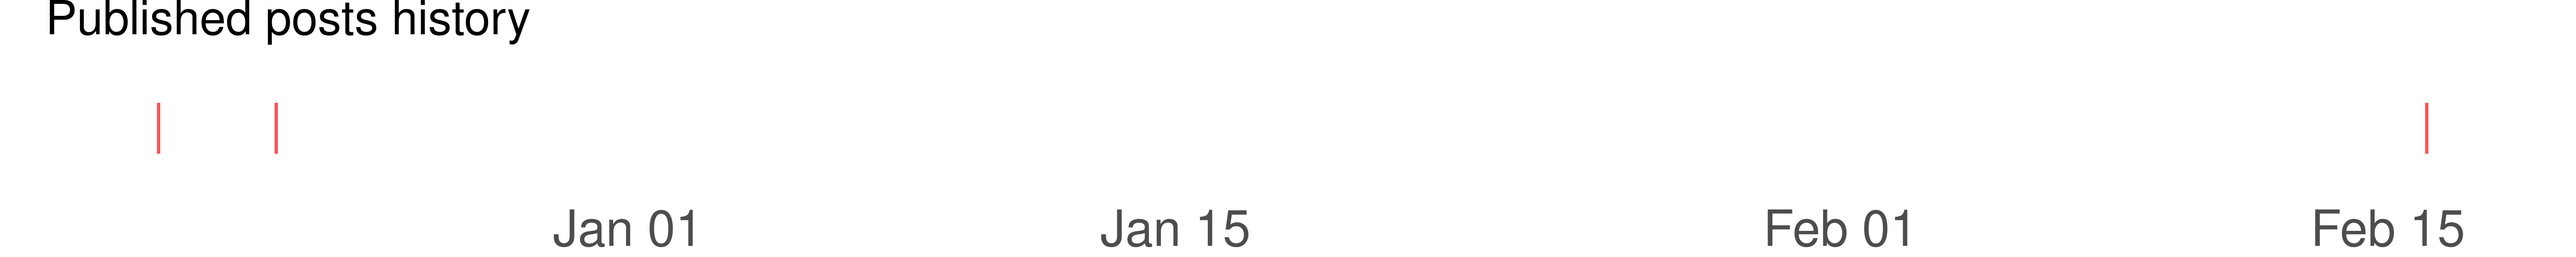
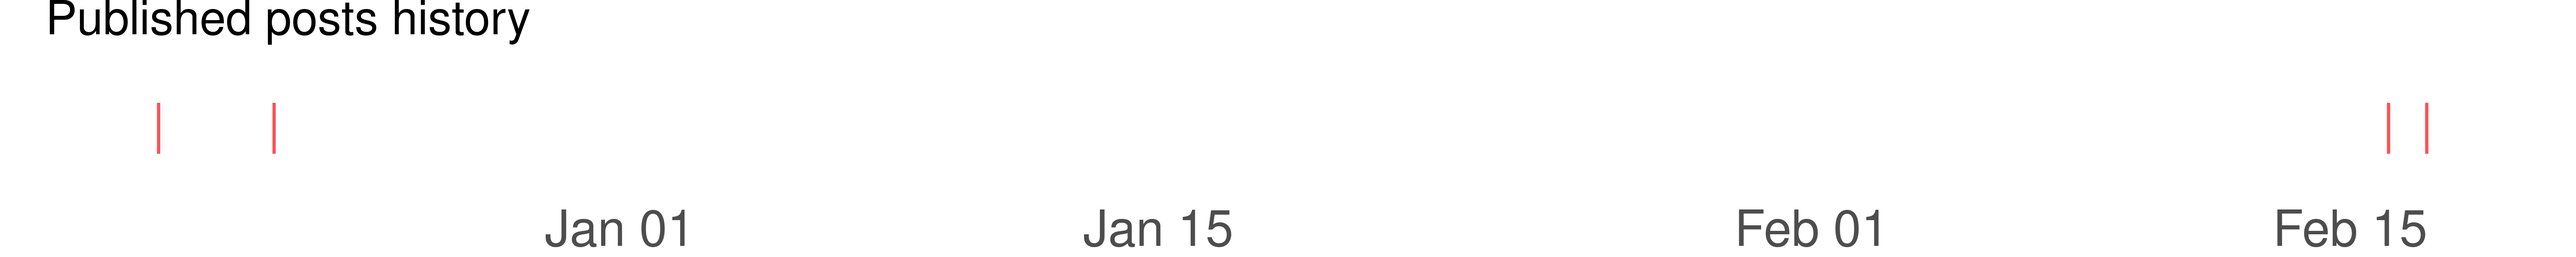
Update contribute

diff --git a/docs/contribute.html b/docs/contribute.html
@@ -93,8 +93,8 @@ code span.wa { color: #5e5e5e; font-style: italic; } /* Warning */
 
 
   <!--  https://schema.org/Article -->
-  <meta property="article:published" itemprop="datePublished" content="2022-02-18"/>
-  <meta property="article:created" itemprop="dateCreated" content="2022-02-18"/>
+  <meta property="article:published" itemprop="datePublished" content="2022-02-20"/>
+  <meta property="article:created" itemprop="dateCreated" content="2022-02-20"/>
   <meta name="article:author" content="Olivier Binette"/>
 
   <!--  https://developers.facebook.com/docs/sharing/webmasters#markup -->
@@ -113,7 +113,7 @@ code span.wa { color: #5e5e5e; font-style: italic; } /* Warning */
   <!--radix_placeholder_rmarkdown_metadata-->
 
   <script type="text/json" id="radix-rmarkdown-metadata">
-  {"type":"list","attributes":{"names":{"type":"character","attributes":{},"value":["title","description","author","date","output"]}},"value":[{"type":"character","attributes":{},"value":["How to Contribute"]},{"type":"character","attributes":{},"value":["This blog is open to contributions from everyone.\n"]},{"type":"list","attributes":{},"value":[{"type":"list","attributes":{"names":{"type":"character","attributes":{},"value":["name","url","affiliation","orcid_id"]}},"value":[{"type":"character","attributes":{},"value":["Olivier Binette"]},{"type":"character","attributes":{},"value":["https://olivierbinette.github.io"]},{"type":"character","attributes":{},"value":["Duke University"]},{"type":"character","attributes":{},"value":["0000-0001-6009-5206"]}]}]},{"type":"character","attributes":{},"value":["2022-02-18"]},{"type":"character","attributes":{},"value":["distill::distill_article"]}]}
+  {"type":"list","attributes":{"names":{"type":"character","attributes":{},"value":["title","description","author","date","output"]}},"value":[{"type":"character","attributes":{},"value":["How to Contribute"]},{"type":"character","attributes":{},"value":["This blog is open to contributions from everyone.\n"]},{"type":"list","attributes":{},"value":[{"type":"list","attributes":{"names":{"type":"character","attributes":{},"value":["name","url","affiliation","orcid_id"]}},"value":[{"type":"character","attributes":{},"value":["Olivier Binette"]},{"type":"character","attributes":{},"value":["https://olivierbinette.github.io"]},{"type":"character","attributes":{},"value":["Duke University"]},{"type":"character","attributes":{},"value":["0000-0001-6009-5206"]}]}]},{"type":"character","attributes":{},"value":["2022-02-20"]},{"type":"character","attributes":{},"value":["distill::distill_article"]}]}
   </script>
   <!--/radix_placeholder_rmarkdown_metadata-->
   <!--radix_placeholder_navigation_in_header-->
@@ -2445,7 +2445,7 @@ code span.wa { color: #5e5e5e; font-style: italic; } /* Warning */
 <!--radix_placeholder_front_matter-->
 
 <script id="distill-front-matter" type="text/json">
-{"title":"How to Contribute","description":"This blog is open to contributions from everyone.","authors":[{"author":"Olivier Binette","authorURL":"https://olivierbinette.github.io","affiliation":"Duke University","affiliationURL":"#","orcidID":"0000-0001-6009-5206"}],"publishedDate":"2022-02-18T00:00:00.000-05:00","citationText":"Binette, 2022"}
+{"title":"How to Contribute","description":"This blog is open to contributions from everyone.","authors":[{"author":"Olivier Binette","authorURL":"https://olivierbinette.github.io","affiliation":"Duke University","affiliationURL":"#","orcidID":"0000-0001-6009-5206"}],"publishedDate":"2022-02-20T00:00:00.000-05:00","citationText":"Binette, 2022"}
 </script>
 
 <!--/radix_placeholder_front_matter-->
@@ -2484,7 +2484,7 @@ code span.wa { color: #5e5e5e; font-style: italic; } /* Warning */
 <div class="d-byline">
   Olivier Binette <a href="https://olivierbinette.github.io" class="uri">https://olivierbinette.github.io</a> (Duke University)
   
-<br/>2022-02-18
+<br/>2022-02-20
 </div>
 
 <div class="d-article">
@@ -2497,8 +2497,8 @@ code span.wa { color: #5e5e5e; font-style: italic; } /* Warning */
 </div>
 <h4 id="some-stats">Some stats</h4>
 <ul>
-<li><p>RLIG’s blog has <strong>3</strong> posts since <strong>2021-12-20</strong>.</p></li>
-<li><p>The last post was published <strong>2</strong> days ago (<a href="https://recordlinkageig.github.io/posts/2022-02-16-youre-invited-linkage-seminar-series-thursday-february-24">Linkage Seminar Series - Thursday February 24</a>).</p></li>
+<li><p>RLIG’s blog has <strong>4</strong> posts since <strong>2021-12-20</strong>.</p></li>
+<li><p>The last post was published <strong>3</strong> days ago (<a href="https://recordlinkageig.github.io/posts/2022-02-17-deepparse">deepparse</a>).</p></li>
 </ul>
 <div class="layout-chunk" data-layout="l-body">
 <p><img src="contribute_files/figure-html5/plot-obj-1.png" width="3000" /></p>
@@ -2517,14 +2517,18 @@ Click to expand a full list of posts
 </thead>
 <tbody>
 <tr class="odd">
+<td style="text-align: left;">2022-02-17</td>
+<td style="text-align: left;"><a href="https://recordlinkageig.github.io/posts/2022-02-17-deepparse">deepparse</a></td>
+</tr>
+<tr class="even">
 <td style="text-align: left;">2022-02-16</td>
 <td style="text-align: left;"><a href="https://recordlinkageig.github.io/posts/2022-02-16-youre-invited-linkage-seminar-series-thursday-february-24">Linkage Seminar Series - Thursday February 24</a></td>
 </tr>
-<tr class="even">
+<tr class="odd">
 <td style="text-align: left;">2021-12-23</td>
 <td style="text-align: left;"><a href="https://recordlinkageig.github.io/posts/2021-12-23-record-linkage-at-the-gpsg-community-pantry">Record Linkage at the Duke GPSG Community Pantry</a></td>
 </tr>
-<tr class="odd">
+<tr class="even">
 <td style="text-align: left;">2021-12-20</td>
 <td style="text-align: left;"><a href="https://recordlinkageig.github.io/posts/2021-12-20-welcome">Welcome!</a></td>
 </tr>
@@ -2534,7 +2538,11 @@ Click to expand a full list of posts
 </details>
 <h2 id="contribution-instructions">Contribution Instructions</h2>
 <p>The blog is based on <a href="https://rstudio.github.io/distill/">Distill for Rmarkdown</a>, an <a href="https://rmarkdown.rstudio.com/">Rmarkdown</a> extension for scientific and technical writing on the web.</p>
-<p>In order to contribute a post to this blog, you will need basic familiarity with git, github, R and Rmarkdown. If you are not familiar with these tools, contact <a href="https://olivierbinette.github.io/">Olivier Binette</a> to help adapt your blog post. We recommend using <a href="https://www.rstudio.com/products/rstudio/">RStudio</a> as an IDE for its visual rmarkdown editor and suite of compatible editing features. If you do not have RStudio, you will need to separately install <a href="https://pandoc.org/">Pandoc</a> to render Rmarkdown documents.</p>
+<p>There are two ways to contribute to this blog:</p>
+<ol type="1">
+<li>Contact <a href="https://olivierbinette.github.io/">Olivier Binette</a> to get a blog post published from any source. This blog post can be written in text format, markdown format, rmarkdown format, or another format without complicated formatting.</li>
+<li>If you have familiarity with Rmarkdown and Github, you can follow the steps below to directly contribute to the blog.</li>
+</ol>
 <h3 id="system-configuration">System configuration</h3>
 <p>Make sure you have <a href="https://www.r-project.org/">R</a> and <a href="https://www.rstudio.com/products/rstudio/">RStudio</a> installed (you can separately install <a href="https://pandoc.org/">Pandoc</a> instead of RStudio). You will also need to install the following packages in R:</p>
 <div class="sourceCode" id="cb1"><pre class="sourceCode r"><code class="sourceCode r"><span id="cb1-1"><a href="#cb1-1" aria-hidden="true" tabindex="-1"></a><span class="fu">install.packages</span>(<span class="fu">c</span>(<span class="st">&quot;rmarkdown&quot;</span>, <span class="st">&quot;distill&quot;</span>))</span></code></pre></div>
@@ -2586,7 +2594,7 @@ Click to expand a full list of posts
 <p>Please note that the RecordLinkageIG.github.io project is released with a <a href="https://contributor-covenant.org/version/2/0/CODE_OF_CONDUCT.html">Contributor Code of Conduct</a>. By contributing to this project, you agree to abide by its terms.</p>
 <h2 class="appendix" id="acknowledgements">Acknowledgements</h2>
 <p>This document uses code from <a href="https://github.com/shannonpileggi/pipinghotdata_distill">https://github.com/shannonpileggi/pipinghotdata_distill</a>.</p>
-<p><em>Updated 2022-02-18 12:27:24</em></p>
+<p><em>Updated 2022-02-20 21:42:08</em></p>
 <div class="sourceCode" id="cb6"><pre class="sourceCode r distill-force-highlighting-css"><code class="sourceCode r"></code></pre></div>
 <!--radix_placeholder_article_footer-->
 <!--/radix_placeholder_article_footer-->
